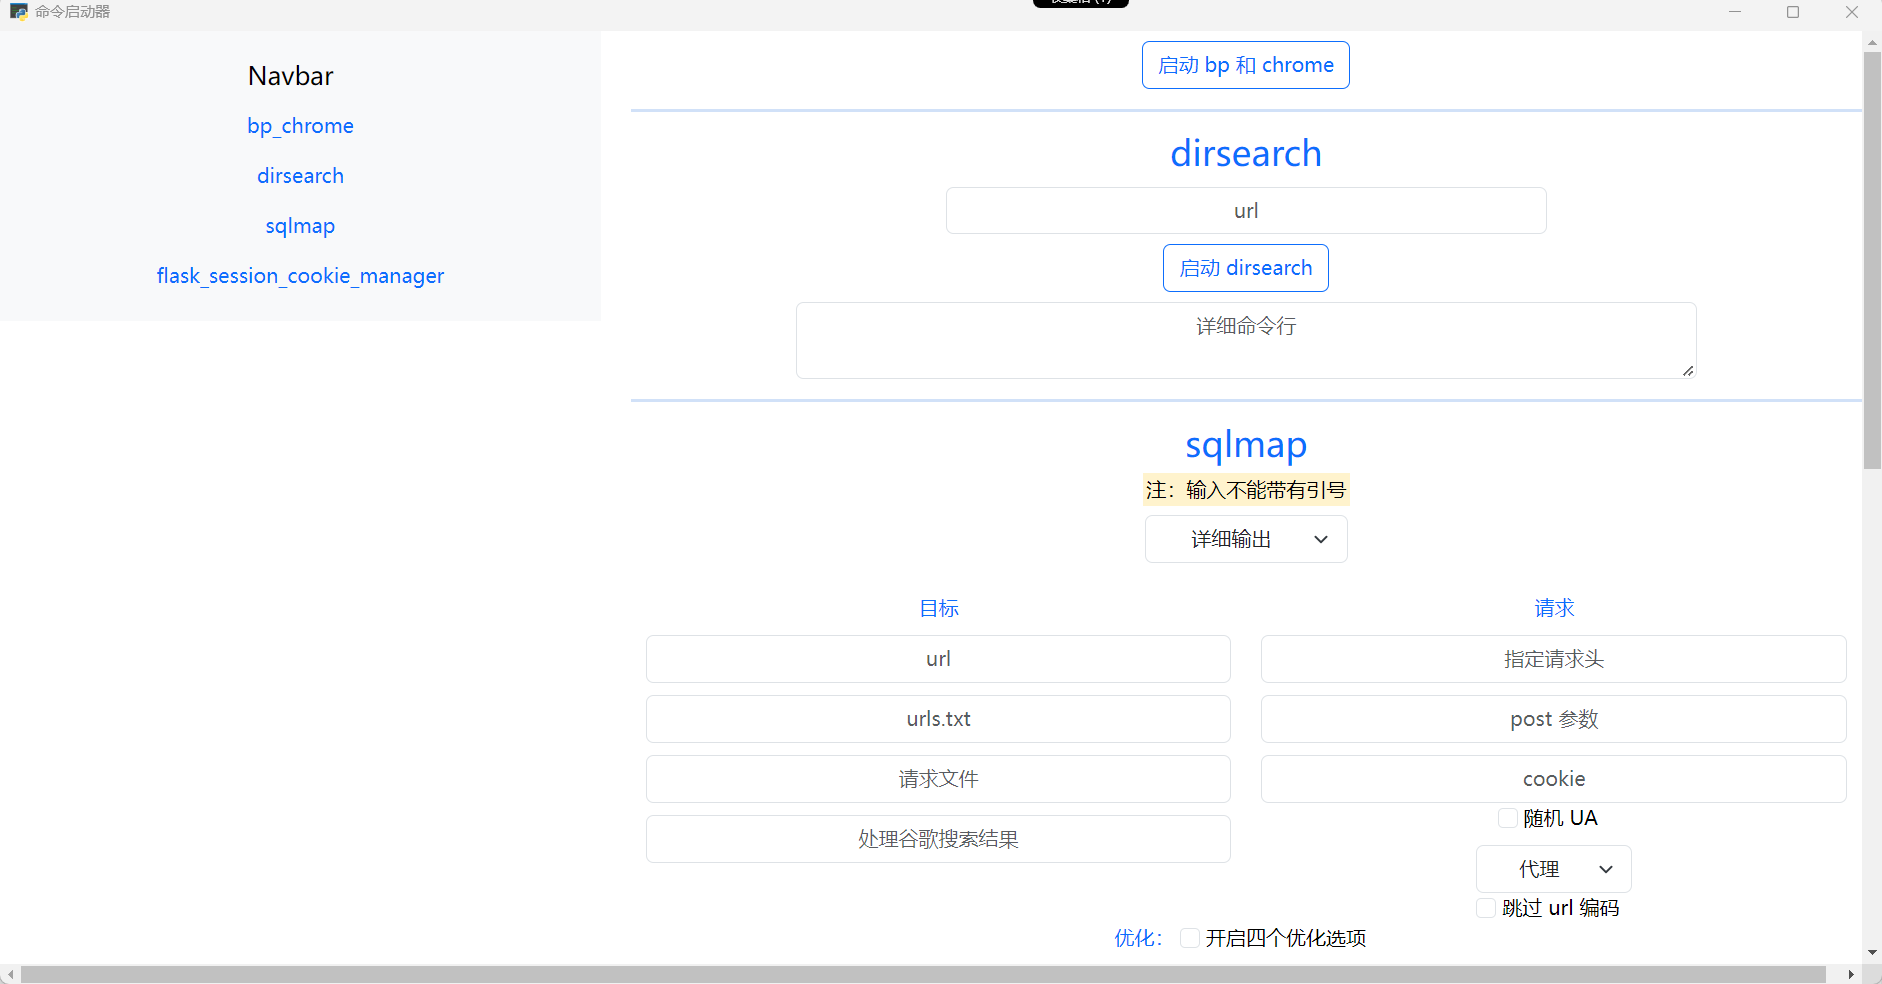
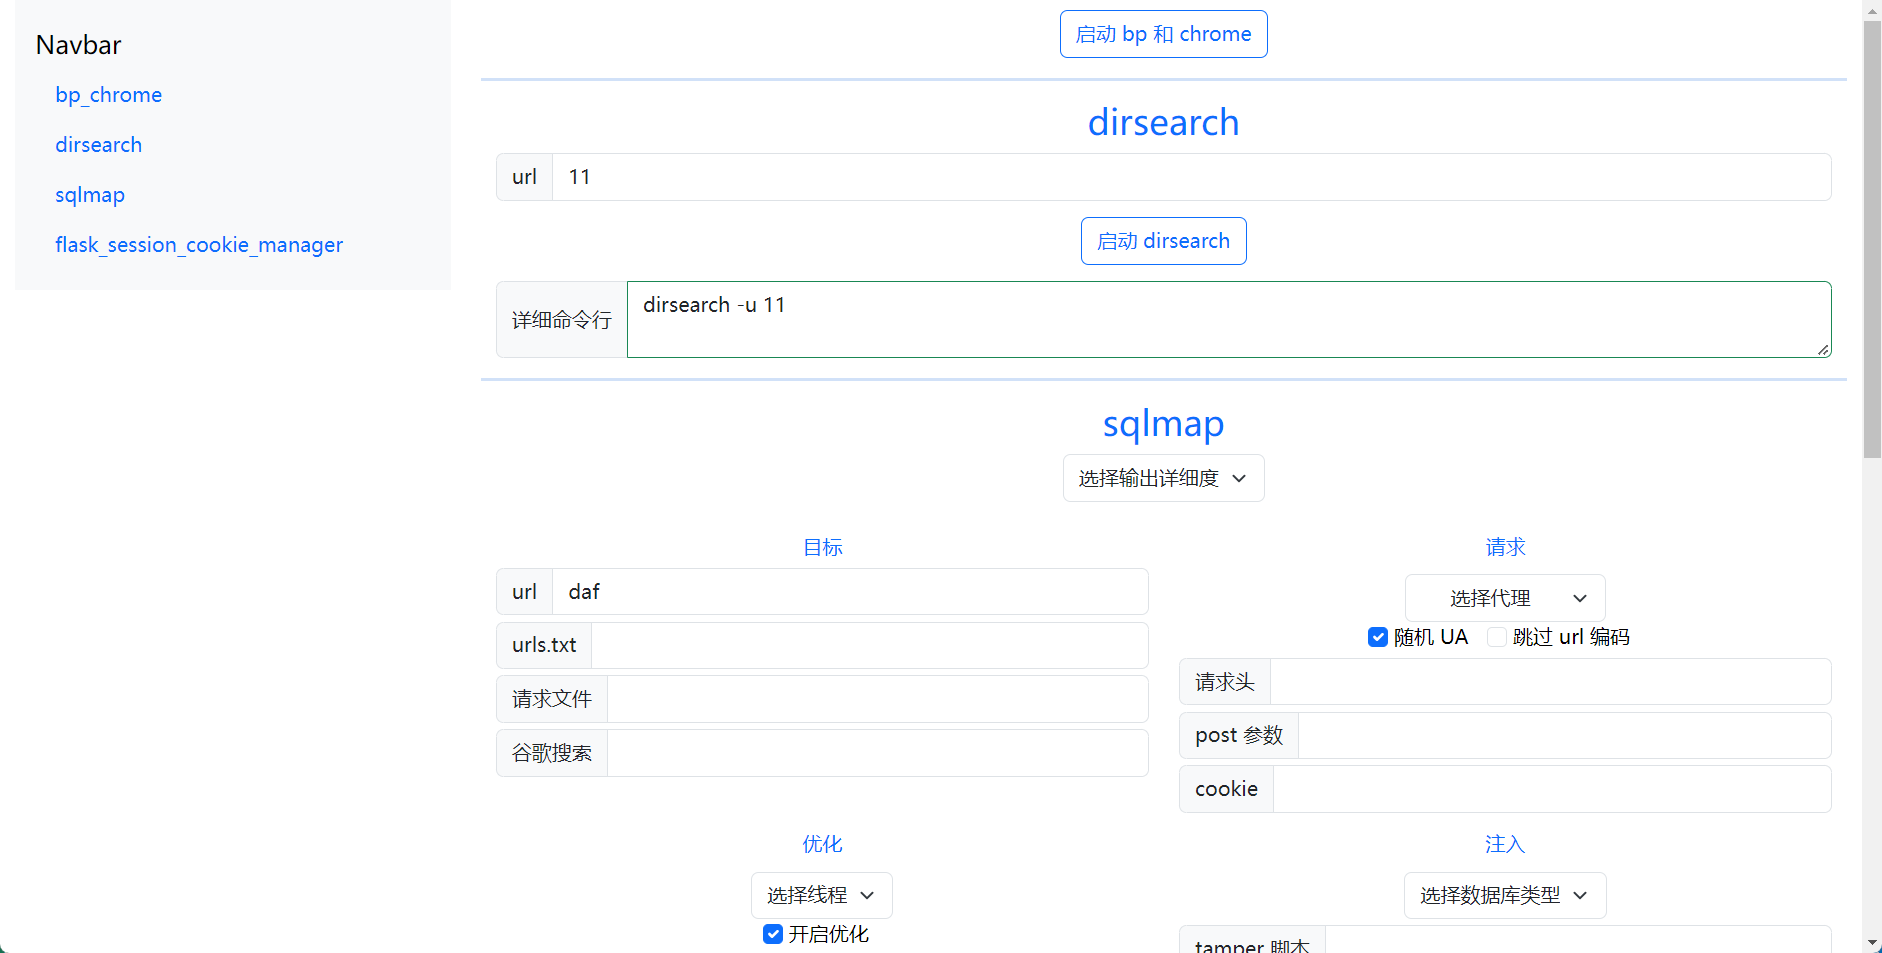
normal

diff --git a/call_api.js b/call_api.js
@@ -1,8 +1,3 @@
-var tooltipTriggerList = [].slice.call(document.querySelectorAll('[data-bs-toggle="tooltip"]'))
-var tooltipList = tooltipTriggerList.map(function (tooltipTriggerEl) {
-return new bootstrap.Tooltip(tooltipTriggerEl)
-})
-
 function dirsearch() {
     var u = dirsearch_u.value;
 

diff --git a/README.md b/README.md
@@ -1,10 +1,21 @@
 # 命令启动器 command_runner
 命令启动器：为一些命令制作了 GUI，如 sqlmap，flask_session_cookie_manager
 
-前端：HTML + CSS（bootstrap）+ JS（调用 API）
+# 技术
 
-后端：Python（提供 API，启动 webview）
+前端：HTML + CSS（Bootstrap）+ JS
 
-展示如下：
+后端：Python
+
+# 流程
+启动界面：命令启动器.pyw 启动 webview 来渲染界面，并且把 Python 函数提供给 JS 调用
+
+启动命令：在界面选择并输入相关参数，JS 调用 API，Python 启动命令
+
+# 展示如下：
 
 <img src="./static/GUI.png">
+
+# 注意事项
+- Python >= 3.10，因为使用了 match-case
+- 部分参数默认开启，如 sqlmap 的 --batch，修改请移步 gui.html
